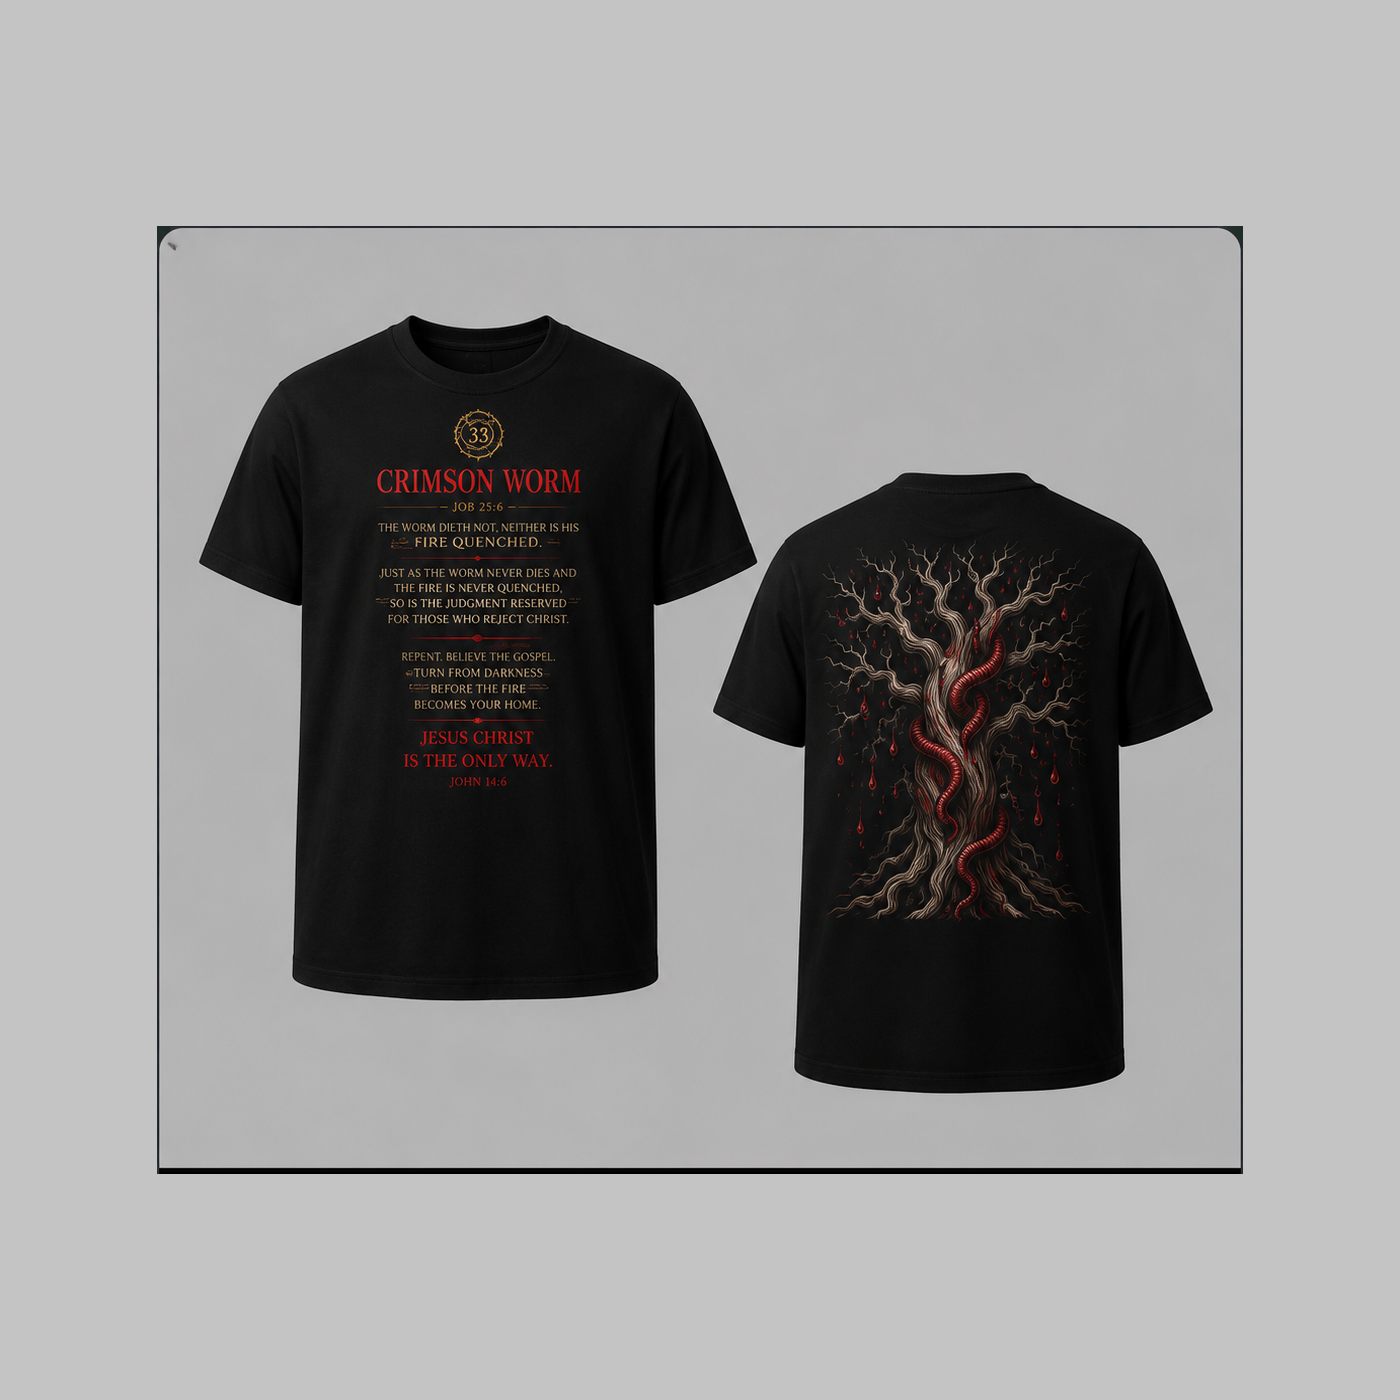
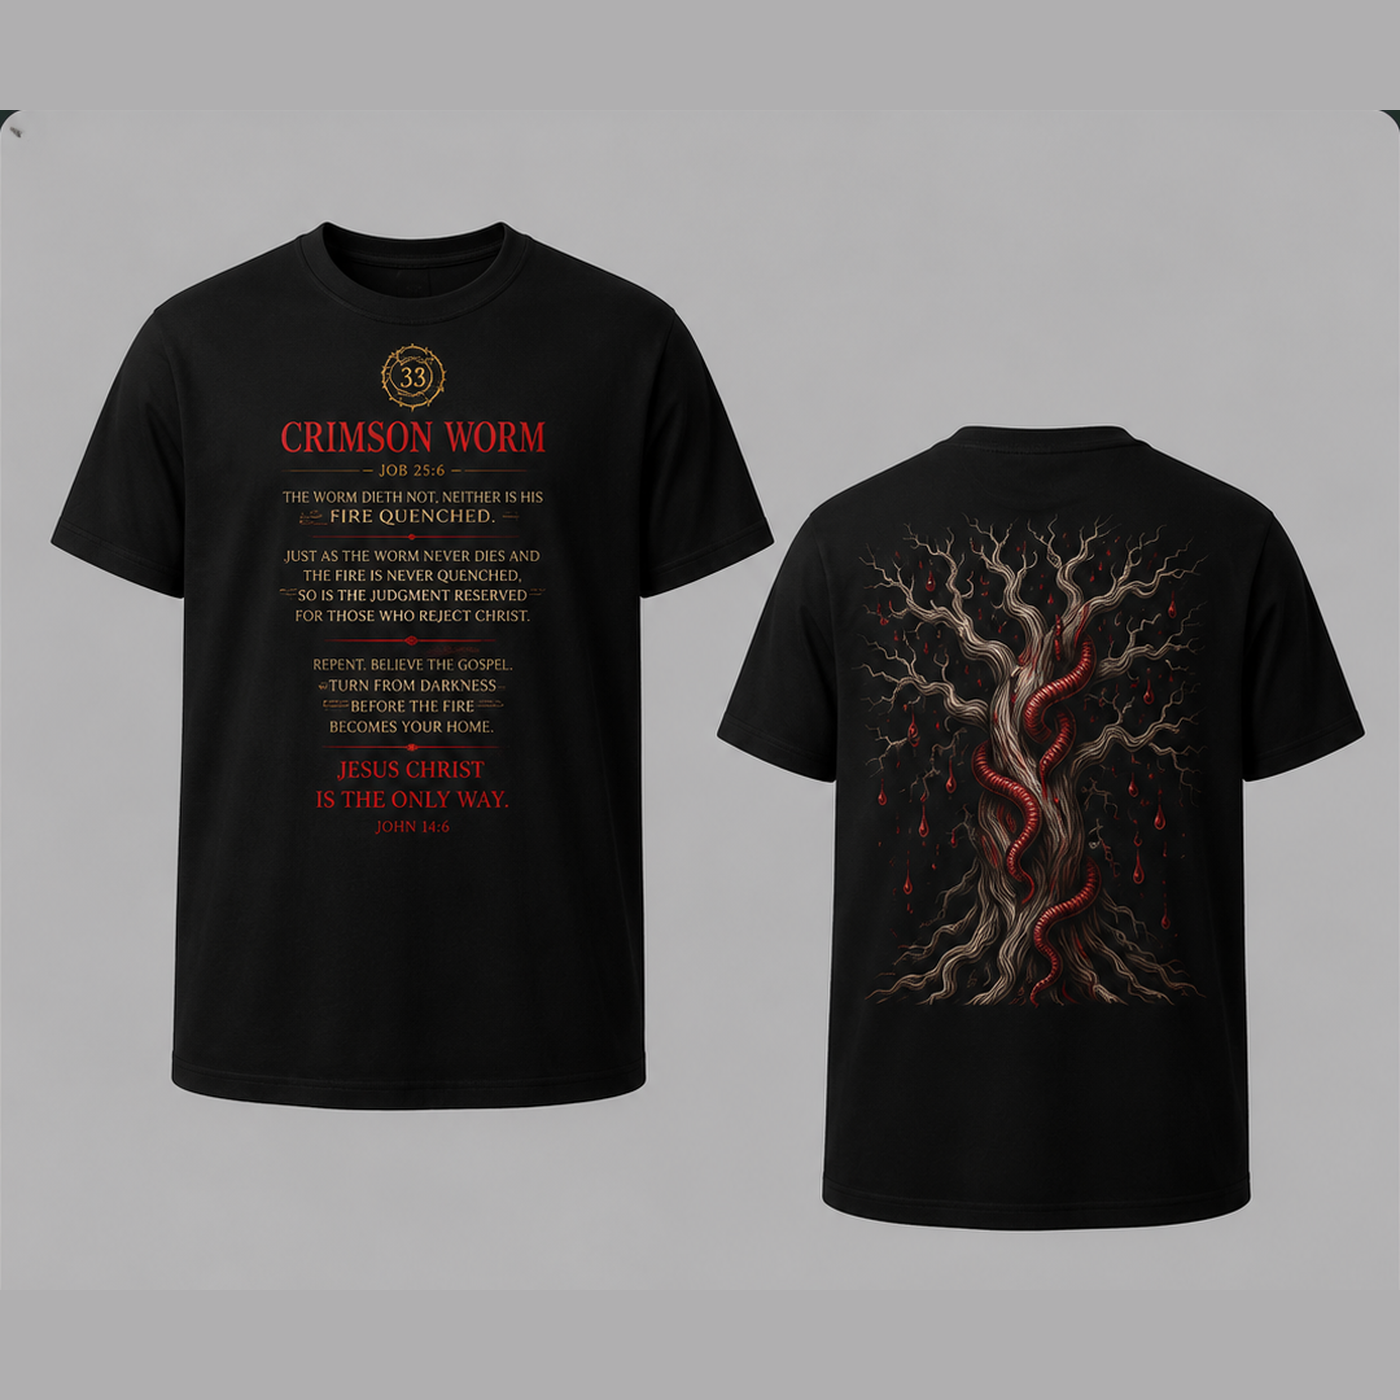
V8.4

diff --git a/checkout.html b/checkout.html
@@ -4,7 +4,7 @@
   <meta charset="utf-8">
   <meta name="viewport" content="width=device-width,initial-scale=1">
   <title>Checkout | No Vanity 33</title>
-  <link rel="stylesheet" href="css/style.css?v=version8-3-20260725">
+  <link rel="stylesheet" href="css/style.css?v=version8-4-20260725">
   <style>
     .checkout-layout{display:grid;grid-template-columns:1fr 1fr;gap:24px;max-width:1050px;margin:0 auto}.checkout-panel{background:#111;border:1px solid #332b18;border-radius:12px;padding:22px}.checkout-fields{display:grid;grid-template-columns:1fr 1fr;gap:12px}.checkout-fields .wide{grid-column:1/-1}.checkout-fields label{display:flex;flex-direction:column;gap:6px;font-size:.88rem;color:#e8dfca}.checkout-fields input,.checkout-fields select{width:100%;box-sizing:border-box;background:#080808;border:1px solid #514426;border-radius:7px;color:#fff;padding:12px}.shipping-rate{display:block;border:1px solid #514426;border-radius:8px;padding:12px;margin:10px 0;cursor:pointer}.shipping-rate:has(input:checked){border-color:#f6c442;background:#1b170c}.muted{color:#a99f89;font-size:.88rem}.checkout-summary-line{display:flex;justify-content:space-between;gap:15px;padding:8px 0}.checkout-grand{border-top:1px solid #514426;margin-top:12px;padding-top:14px;font-size:1.15rem}.status-good{color:#8ee39b}.status-error{color:#ff9b9b}@media(max-width:780px){.checkout-layout{grid-template-columns:1fr}.checkout-fields{grid-template-columns:1fr}.checkout-fields .wide{grid-column:auto}}
   </style>
@@ -56,7 +56,7 @@ function renderCheckout(){
   totalBox.innerHTML=`<span>Total before tax</span><strong>${money(subtotal+(selectedShipping?.rate||0))}</strong>`;
   btn.disabled=!selectedShipping;
 }
-async function loadProducts(){const res=await fetch('data/products.json?v=version8-3-20260725');if(!res.ok)throw new Error('Could not load products.');products=await res.json();}
+async function loadProducts(){const res=await fetch('data/products.json?v=version8-4-20260725');if(!res.ok)throw new Error('Could not load products.');products=await res.json();}
 function findProduct(cartItem){return products.find(p=>(cartItem.id&&p.id===cartItem.id)||(cartItem.name&&p.name===cartItem.name));}
 function recipient(){return {email:email.value.trim(),name:fullName.value.trim(),address1:address1.value.trim(),address2:address2.value.trim(),city:city.value.trim(),state_code:state.value.trim(),zip:zip.value.trim(),country_code:country.value.trim().toUpperCase()};}
 function validRecipient(r){return r.email&&r.name&&r.address1&&r.city&&r.zip&&r.country_code.length===2;}
@@ -87,8 +87,7 @@ async function startCheckout(){
   if(!cart.length||!selectedShipping)return;
   if(!products.length)await loadProducts();
   const lineItems=[],missing=[];
-  for(const item of cart){const p=findProduct(item);const stripePriceId=item.stripePriceId||item.priceId||p?.stripePriceId||p?.priceId||'';if(!stripePriceId){missing.push(item.name);continue;}lineItems.push({price:stripePriceId,quantity:1,productId:item.id||p?.id||'',name:p?.printfulName||item.name||p?.name||'',size:item.size||'',color:item.color||''});}
-  if(missing.length){msg.className='status-error';msg.textContent='These items are not connected to Stripe yet: '+missing.join(', ');return;}
+  for(const item of cart){const p=findProduct(item);const stripePriceId=item.stripePriceId||item.priceId||p?.stripePriceId||p?.priceId||'';lineItems.push({price:stripePriceId,unitAmount:Math.round(Number(item.price||p?.price||0)*100),quantity:1,productId:item.id||p?.id||'',name:p?.printfulName||item.name||p?.name||'',displayName:item.name||p?.name||'No Vanity 33 Product',size:item.size||'',color:item.color||''});}
   btn.disabled=true;btn.textContent='Opening secure checkout...';msg.textContent='';
   try{const res=await fetch('/api/create-checkout-session',{method:'POST',headers:{'Content-Type':'application/json'},body:JSON.stringify({items:lineItems,shipping:selectedShipping,recipient:recipient()})});const data=await res.json().catch(()=>({}));if(data.url){window.location.href=data.url;}else{throw new Error(data.error||'Checkout could not start.');}}
   catch(err){msg.className='status-error';msg.textContent=err.message||'Checkout could not start.';btn.disabled=false;btn.textContent='Pay Securely with Stripe';}

diff --git a/index.html b/index.html
@@ -5,7 +5,7 @@
   <meta name="viewport" content="width=device-width,initial-scale=1">
   <title>No Vanity 33 | Wear the Word. Live the Gospel.</title>
   <meta name="description" content="No Vanity 33 premium Christian apparel designed to glorify Jesus Christ.">
-  <link rel="stylesheet" href="css/style.css?v=version8-3-20260725">
+  <link rel="stylesheet" href="css/style.css?v=version8-4-20260725">
 </head>
 <body>
   <div class="topbar"><div><span>🚚</span> FREE U.S. SHIPPING on all $24.99 shirts</div><div><span>✝</span> Made to Glorify Christ</div><div>♡ 40% of profits help the community</div></div>
@@ -40,6 +40,6 @@
 
   <footer class="footer"><div class="footergrid"><div class="footlogo"><img src="assets/logos/lion33.png" alt="No Vanity 33"><h3>NO VANITY 33</h3><p><b class="gold">Wear the Word.<br>Live the Gospel.</b></p></div><div><h4>Shop</h4><p><a href="#founders">Founder’s Collection</a><br><a href="#shop">Available Now</a><br><a href="#coming-soon">Founder’s Preview</a></p></div><div><h4>Community</h4><p><a href="daily-walk.html">Daily Walk</a><br><a href="prayer-wall.html">Prayer Wall</a><br><a href="#mission">Our Mission</a></p></div><div><h4>Customer Care</h4><p>Shipping Policy<br>Return Policy<br>FAQ<br>Size Guide</p></div><div id="contact"><h4>Contact</h4><p><a href="mailto:novanity2026@gmail.com">novanity2026@gmail.com</a></p><p>Questions, prayer requests and order support are always welcome.</p></div></div><div class="copyright"><span>© 2026 No Vanity 33. All rights reserved.</span><span>Made to Glorify Christ ✝</span></div></footer>
   <div id="cartBox" class="cartbox"></div>
-  <script src="js/app.js?v=version8-3-20260725"></script>
+  <script src="js/app.js?v=version8-4-20260725"></script>
 </body>
 </html>

diff --git a/js/app.js b/js/app.js
@@ -15,10 +15,10 @@ function selectedColor(id){
 }
 function addToCart(id){
   const p=products.find(x=>x.id===id);
-  if(!p||p.status==='coming-soon'||!p.stripePriceId)return;
+  if(!p||p.status==='coming-soon')return;
   const size=document.getElementById('size-'+id)?.value||'One Size';
   const color=selectedColor(id);
-  cart.push({id:p.id,name:p.name,price:p.price,size,color,stripePriceId:p.stripePriceId,shippingIncluded:!!p.shippingIncluded});
+  cart.push({id:p.id,name:p.name,price:p.price,size,color,stripePriceId:p.stripePriceId||'',shippingIncluded:!!p.shippingIncluded});
   save();
   cartBox.classList.add('show');
 }
@@ -63,7 +63,7 @@ function openImage(src,alt){
   modal.querySelector('img').src=src;modal.querySelector('img').alt=alt;modal.classList.add('show');
 }
 function liveCard(p){
-  const purchasable=!!p.stripePriceId;
+  const purchasable=p.status==='available';
   return `<article class="card product-card" id="${p.id}-card">
     <span class="badge">${p.tag||'Available'}</span>
     <div class="imgbox clickable" onclick="openImage(document.getElementById('img-${p.id}').src,'${p.name}')" title="Click to enlarge"><img id="img-${p.id}" src="${p.image}" alt="${p.name}" loading="lazy"></div>
@@ -103,7 +103,7 @@ document.querySelectorAll('[data-filter]').forEach(btn=>{
   };
 });
 cartBtn.onclick=e=>{e.preventDefault();cartBox.classList.toggle('show');};
-fetch('data/products.json?v=version8-3-20260725')
+fetch('data/products.json?v=version8-4-20260725')
   .then(r=>{if(!r.ok)throw new Error('Catalog failed to load');return r.json();})
   .then(d=>{products=d;renderAll();})
   .catch(err=>{

diff --git a/functions/api/create-checkout-session.js b/functions/api/create-checkout-session.js
@@ -25,8 +25,15 @@ export async function onRequestPost(context) {
     if (recipient?.email) params.set('customer_email', recipient.email);
 
     items.forEach((item, index) => {
-      if (!item.price) throw new Error(`Missing Stripe Price ID for ${item.productId || 'product'}.`);
-      params.set(`line_items[${index}][price]`, item.price);
+      if (item.price) {
+        params.set(`line_items[${index}][price]`, item.price);
+      } else {
+        const unitAmount = Math.round(Number(item.unitAmount || 0));
+        if (!Number.isFinite(unitAmount) || unitAmount < 50) throw new Error(`Invalid price for ${item.productId || 'product'}.`);
+        params.set(`line_items[${index}][price_data][currency]`, 'usd');
+        params.set(`line_items[${index}][price_data][unit_amount]`, String(unitAmount));
+        params.set(`line_items[${index}][price_data][product_data][name]`, String(item.displayName || item.name || 'No Vanity 33 Product'));
+      }
       params.set(`line_items[${index}][quantity]`, String(item.quantity || 1));
       if (item.productId) params.set(`metadata[product_${index}_id]`, item.productId);
       if (item.name) params.set(`metadata[product_${index}_name]`, item.name);
